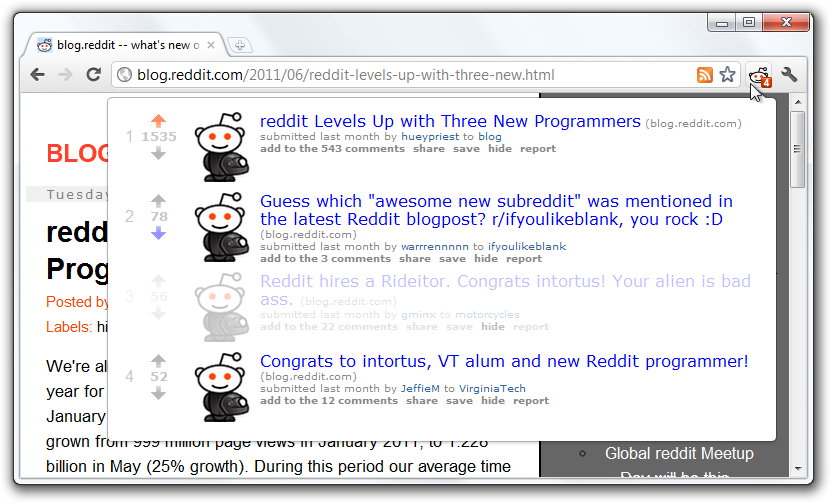
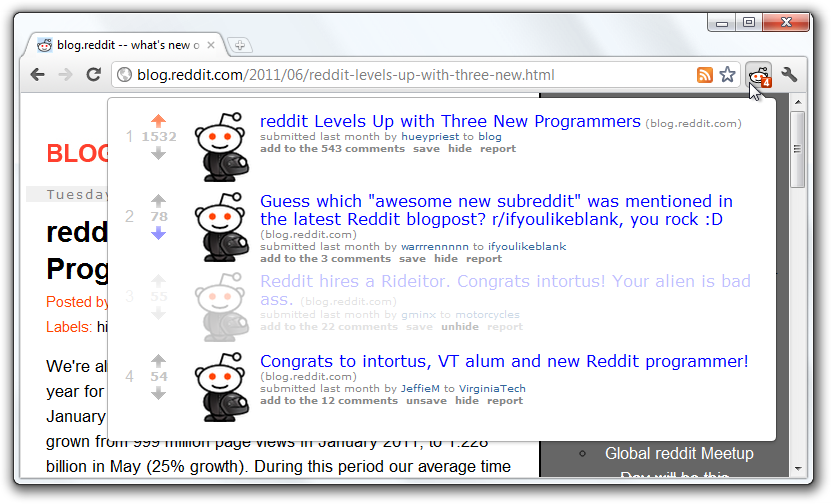
fixed Discover & Vote screenshot and wording.

diff --git a/index.html b/index.html
@@ -25,7 +25,7 @@
 				<h2>Mostly Harmless Features</h2>
 				<p>Mostly Harmless is currently under rapid development, so its features are constantly changing. Once v1.0.0 is released, I will list and demonstrate features here.</p>
 				<h2>Discovery &amp; Voting</h2>
-				<p>Mostly Harmless looks up the page you are currently viewing to see if it has been submitted to reddit. If so, you can see everywhere it has been posted, vote up or down, save/share/hide/report the post, and even add comments straight from the popup.</p>
+				<p>Mostly Harmless looks up the page you are currently viewing to see if it has been submitted to reddit. If so, you can see everywhere it has been posted, vote the story up or down, and even save, hide, and report the post straight from the popup.</p>
 				<img src="./images/ss_popup.png" alt="Screenshot of Mostly Harmless showing all the places a page was posted." width="832" height="504" />
 				<h2>Desktop Notifications</h2>
 				<p>Every redditor knows the joy of getting an orangered. Every redditor <em>also</em> knows that finding out what it&rsquo;s for, who it&rsquo;s from, and what it says is half of the fun! Mostly Harmless will check for orangereds at a specified interval and display a desktop notification when you get one. Of course, you can turn this off if you like.</p>
